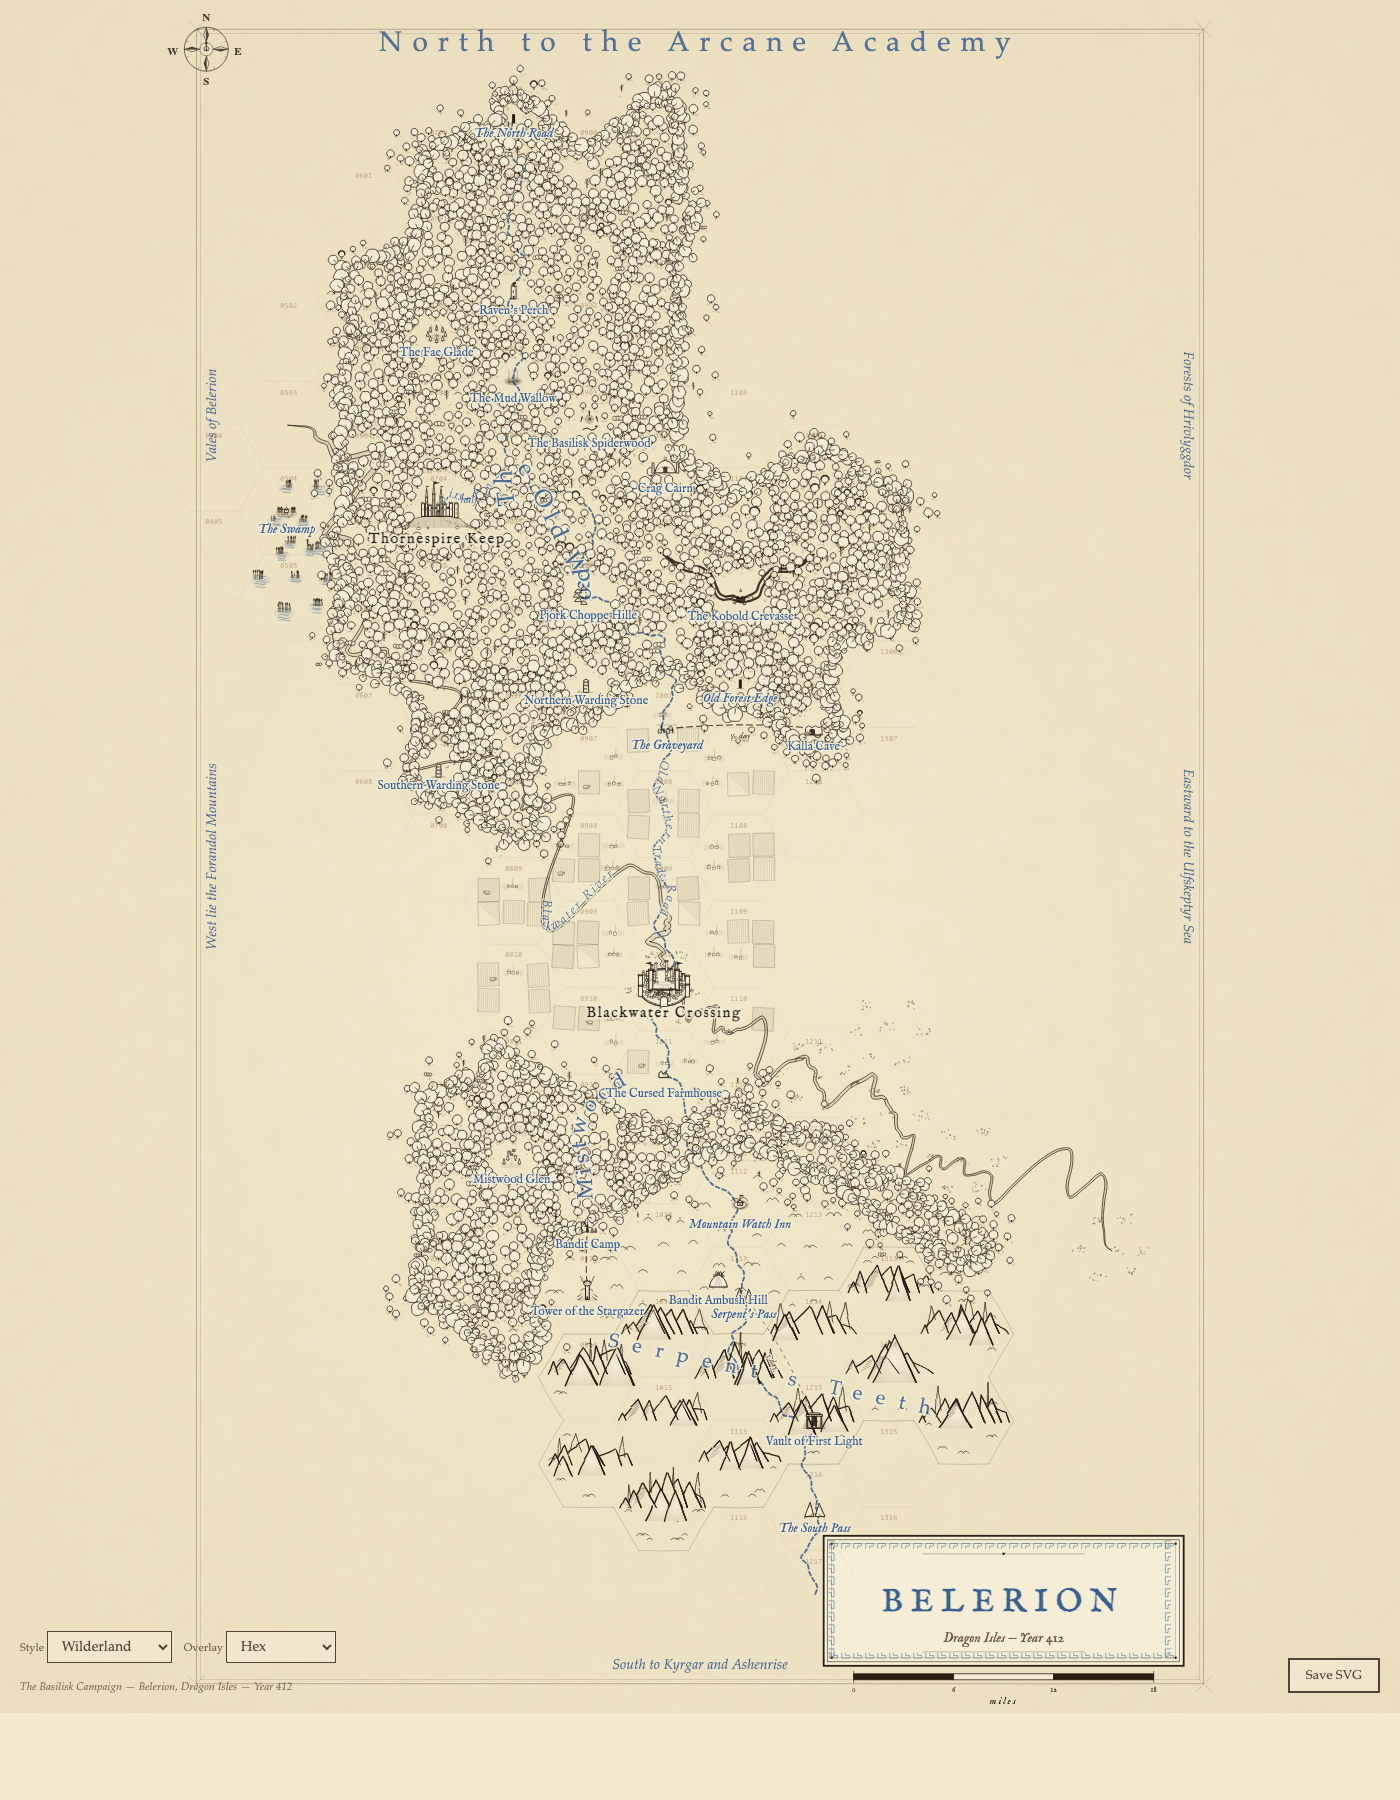
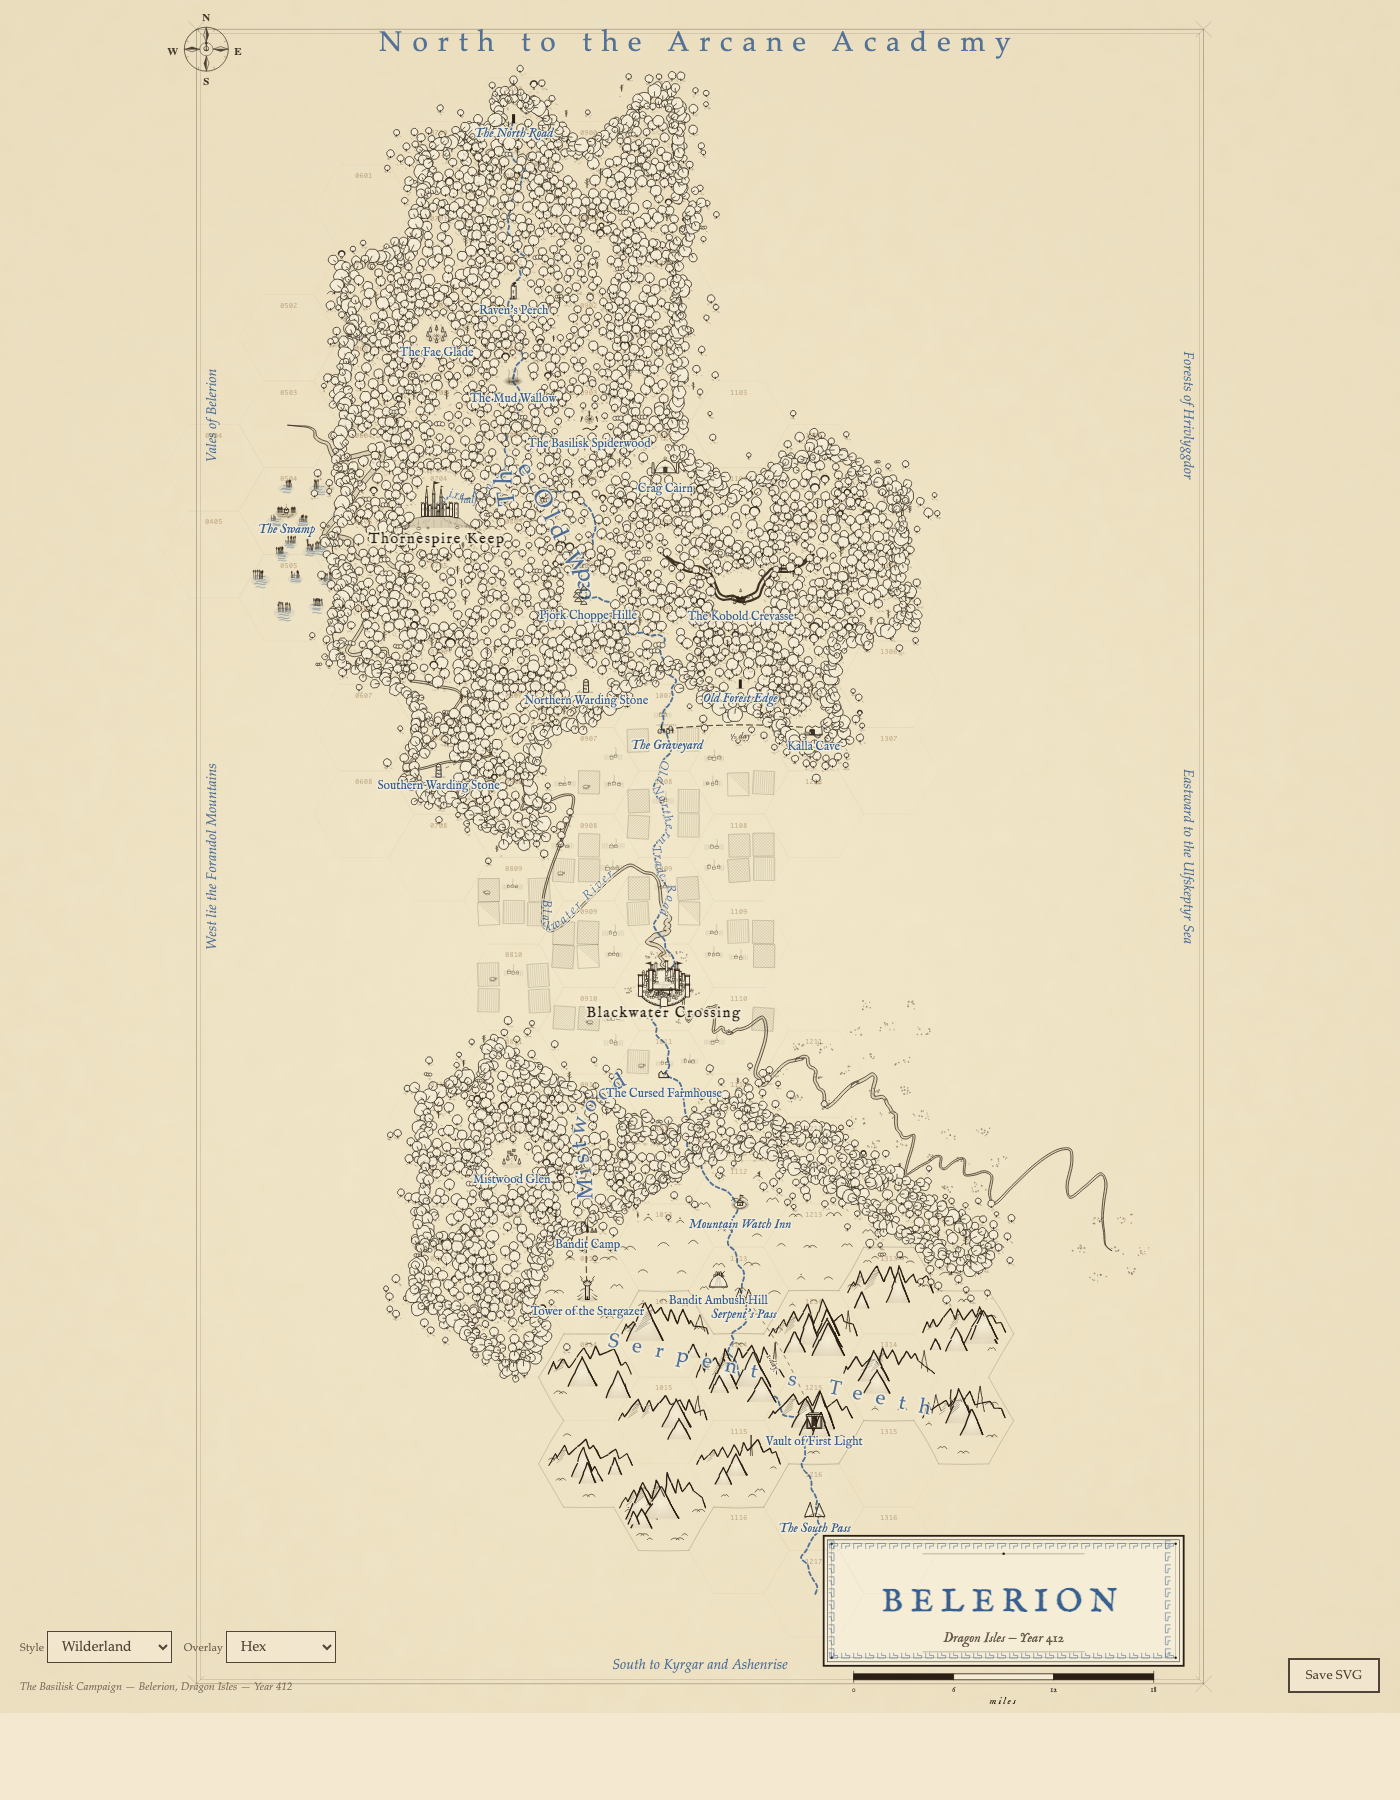
wl-92: clip peak right-leg + 2nd fg layer + broader bg peaks
(1) Main peak's right leg now ends at the NEXT peak's left-leg start
    instead of extending to baseR. Removes the X artifact where two
    inverted-V lines crossed through each other. Two-pass restructure:
    pre-compute all leftStarts, then draw each peak clipped at
    leftStarts[i+1]. Right-face hatching also clipped to the visible
    leg length.

(2) Second foreground layer: each progressive layer is smaller and
    lower on the y-axis. Layer 1 (1.00-1.35× main, base +5-12px) and
    layer 2 (0.70-0.95× main, base +15-25px) both filled with the
    parchment gradient so each occludes the lines behind it.

(3) Background peaks: endpoints moved to 50-75% down the neighbours'
    legs (from 30-50%) and apex lift reduced 4-14px → 2-7px. Bases
    now read as broader/gentler instead of spiky slivers.

Changed region(s): [[0.3993, 0.7156, 0.7064, 0.84], [0.6143, 0.6844, 0.645, 0.7156], [0.4607, 0.7156, 0.4914, 0.7467]]

diff --git a/maps/styles/wilderland.js b/maps/styles/wilderland.js
@@ -467,20 +467,24 @@ window.MapStyles.wilderland = {
         const a = apexes[i], b = apexes[i + 1];
         const baseR_a = a.p.px + a.hw;
         const baseL_b = b.p.px - b.hw;
-        // Start: 30-50% up A's right leg (from apex toward baseR_a).
-        const tLeft = 0.30 + rng() * 0.20;
+        // wl-92: broaden back-peak bases — start further DOWN the
+        // neighbours' legs (closer to their baselines) so the ∧ span
+        // widens, and lower the apex lift so the peak isn't spiky.
+        // Start: 50-75% down A's right leg from apex (wider foot).
+        const tLeft = 0.50 + rng() * 0.25;
         const sx = a.apX + (baseR_a - a.apX) * tLeft;
         const sy = a.apY + (baseY - a.apY) * tLeft;
-        // End: 30-50% up B's left leg (from apex toward baseL_b).
-        const tRight = 0.30 + rng() * 0.20;
+        // End: 50-75% down B's left leg from apex.
+        const tRight = 0.50 + rng() * 0.25;
         const ex = b.apX + (baseL_b - b.apX) * tRight;
         const ey = b.apY + (baseY - b.apY) * tRight;
         if (ex <= sx + 1) continue; // ill-formed — skip
-        // Back-peak apex sits ABOVE both neighbour apexes (lower y).
+        // Back-peak apex sits ABOVE both neighbour apexes. Less lift
+        // (2-7px vs prior 4-14) so the ∧ is wider and gentler.
         const higherApY = Math.min(a.apY, b.apY);
-        const lift = 4 + rng() * 10;
+        const lift = 2 + rng() * 5;
         const apY_bg = higherApY - lift;
-        const apX_bg = (sx + ex) / 2 + (rng() - 0.5) * (ex - sx) * 0.25;
+        const apX_bg = (sx + ex) / 2 + (rng() - 0.5) * (ex - sx) * 0.20;
         // Build wobbled ∧.
         const bgL = wobbledSegment(sx, sy, apX_bg, apY_bg, 0.35);
         const bgR = wobbledSegment(apX_bg, apY_bg, ex, ey, 0.35);
@@ -498,73 +502,88 @@ window.MapStyles.wilderland = {
         });
       }
 
-      // --- MAIN PEAKS (wl-90 overlap model) ---
-      let prevRightLeg = null; // {apX, apY, baseR, baseY}
-      // Track each main peak's legs for the foreground pass to pick
-      // an overlap position.
+      // --- MAIN PEAKS (wl-90 overlap + wl-92 right-leg clip) ---
+      // Pre-pass: compute leftStart for each peak. Each peak i > 0
+      // may start its left leg partway up peak i-1's right leg. We
+      // need these positions BEFORE drawing, so that peak i-1's
+      // right leg can be truncated at peak i's leftStart (avoiding
+      // the X-shaped crossing artifact where both lines extended
+      // through each other).
+      const leftStarts = new Array(apexes.length);
+      for (let i = 0; i < apexes.length; i++) {
+        const a = apexes[i];
+        const baseL = a.p.px - a.hw;
+        if (i === 0) {
+          leftStarts[i] = [baseL, baseY];
+          continue;
+        }
+        const prev = apexes[i - 1];
+        const prevBaseR = prev.p.px + prev.hw;
+        const tOverlap = 0.30 + rng() * 0.35;
+        const sx = prev.apX + (prevBaseR - prev.apX) * tOverlap;
+        const sy = prev.apY + (baseY - prev.apY) * tOverlap;
+        if (sx < a.apX - 1) {
+          leftStarts[i] = [sx, sy];
+        } else {
+          leftStarts[i] = [baseL, baseY];
+        }
+      }
+
+      // Draw each peak. The right leg ends at peak i+1's leftStart
+      // (when it lives on peak i's right leg) rather than extending
+      // all the way to baseR — this removes the visual artifact
+      // where peak i's right leg continued past peak i+1's left leg.
       const mainLegs = [];
       for (let i = 0; i < apexes.length; i++) {
         const a = apexes[i];
         const baseR = a.p.px + a.hw;
         const baseL = a.p.px - a.hw;
-        // Where does the LEFT LEG start?
-        let leftStart;
-        if (!prevRightLeg) {
-          leftStart = [baseL, baseY];
-        } else {
-          // Interpolate along the previous peak's right leg at a
-          // random fraction — "partway up" ranges 30-65% from apex.
-          const tOverlap = 0.30 + rng() * 0.35;
-          const pax = prevRightLeg.apX, pay = prevRightLeg.apY;
-          const pbx = prevRightLeg.baseR, pby = baseY;
-          const sx = pax + (pbx - pax) * tOverlap;
-          const sy = pay + (pby - pay) * tOverlap;
-          // Ensure the start sits to the LEFT of this peak's apex so
-          // the left leg climbs (rather than descending backwards).
-          if (sx < a.apX - 1) {
-            leftStart = [sx, sy];
+        const leftStart = leftStarts[i];
+        // Determine right-leg endpoint.
+        let rightEnd;
+        if (i + 1 < apexes.length) {
+          const nextLS = leftStarts[i + 1];
+          // nextLS lies on this peak's right leg iff its x is between
+          // apex and baseR and it wasn't the baseL fallback (in which
+          // case nextLS[0] equals next peak's baseL, which is different).
+          if (nextLS[0] > a.apX && nextLS[0] <= baseR) {
+            rightEnd = nextLS;
           } else {
-            leftStart = [baseL, baseY];
+            rightEnd = [baseR, baseY];
           }
+        } else {
+          rightEnd = [baseR, baseY];
         }
-        // Build the ∧ as two wobbled segments joined at the apex.
         const legL = wobbledSegment(leftStart[0], leftStart[1], a.apX, a.apY);
-        const legR = wobbledSegment(a.apX, a.apY, baseR, baseY);
+        const legR = wobbledSegment(a.apX, a.apY, rightEnd[0], rightEnd[1]);
         const peakPts = legL.concat(legR.slice(1));
         const peakD = "M " + peakPts.map(q => q[0].toFixed(2) + " " + q[1].toFixed(2)).join(" L ");
         const hBoost = a.p.h > 18 ? 0.15 : 0;
         drawStroke(peakD, hBoost);
-        prevRightLeg = { apX: a.apX, apY: a.apY, baseR, baseY };
-        mainLegs.push({ leftStart, apX: a.apX, apY: a.apY, baseR, baseL });
+        mainLegs.push({ leftStart, apX: a.apX, apY: a.apY, baseR, baseL, rightEnd });
       }
 
-      // --- wl-91 FOREGROUND PASS ---
-      // 0-2 extra peaks per cluster drawn IN FRONT of the main range
-      // (larger, base pushed a few pixels below the main baseY so
-      // they read as closer). Filled with the parchment gradient so
-      // they occlude the main-peak lines behind them, giving the
-      // range visible depth. Drawn LAST so their fill sits on top.
-      const fgCount = Math.floor(rng() * 2) + (apexes.length >= 4 ? 1 : 0);
-      for (let f = 0; f < fgCount; f++) {
-        // Anchor x near one of the main peaks, biased toward the
-        // middle of the cluster where the tallest peaks live so the
-        // foreground peak doesn't poke out at the cluster ends.
-        const anchorIdx = Math.floor(apexes.length * (0.25 + rng() * 0.50));
-        const host = apexes[Math.max(0, Math.min(apexes.length - 1, anchorIdx))];
+      // --- wl-91/wl-92 FOREGROUND PASSES (TWO LAYERS) ---
+      // Two foreground layers per cluster. Each progressive layer
+      // sits LOWER on the y-axis (base pushed further below the main
+      // baseY) and is SMALLER than the layer behind it, creating the
+      // illusion that we're stacking closer mountains in front. Each
+      // layer fills its body with the parchment gradient so it
+      // occludes the range behind it.
+      const drawFgPeak = (host, sizeMul, baseShift, strokeBump) => {
         const fgApX = host.apX + (rng() - 0.5) * host.hw * 0.8;
-        const fgH = host.p.h * (1.05 + rng() * 0.40);
-        const fgBaseShift = 5 + rng() * 8;           // push below main baseY
-        const fgBaseY = baseY + fgBaseShift;
+        const fgH = host.p.h * sizeMul;
+        const fgBaseY = baseY + baseShift;
         const fgApY = fgBaseY - fgH;
-        const fgHw = host.hw * (1.05 + rng() * 0.35);
+        const fgHw = host.hw * (sizeMul * 0.95 + rng() * 0.15);
         const fgBaseL = fgApX - fgHw;
         const fgBaseR = fgApX + fgHw;
         const legLF = wobbledSegment(fgBaseL, fgBaseY, fgApX, fgApY, 0.55);
         const legRF = wobbledSegment(fgApX, fgApY, fgBaseR, fgBaseY, 0.55);
         const fgPts = legLF.concat(legRF.slice(1));
         // Closed polygon so we can fill the foreground peak interior
-        // with the parchment gradient — this occludes the back-peak
-        // and main-peak lines behind it, creating the depth illusion.
+        // with the parchment gradient — this occludes the main and
+        // back peak lines behind it.
         const fillPts = fgPts.slice();
         fillPts.push([fgBaseL, fgBaseY]);
         const fillD = "M " + fillPts.map(q => q[0].toFixed(2) + " " + q[1].toFixed(2)).join(" L ") + " Z";
@@ -572,19 +591,17 @@ window.MapStyles.wilderland = {
           .attr("d", fillD)
           .attr("fill", "url(#parchment-grad)")
           .attr("stroke", "none");
-        // Then draw the outline ∧ on top.
         const fgD = "M " + fgPts.map(q => q[0].toFixed(2) + " " + q[1].toFixed(2)).join(" L ");
         roughPath(tg, fgD, {
           stroke: INK,
-          strokeWidth: 1.25 + rng() * 0.30,
+          strokeWidth: 1.15 + rng() * 0.25 + strokeBump,
           fill: "none",
           roughness: 0.55,
           bowing: 0.35,
           disableMultiStroke: true,
           seed: Math.floor(rng() * 2 ** 31),
         });
-        // Foreground peaks get a touch of right-face hatching so
-        // they don't read as bare silhouettes.
+        // Right-face hatching.
         const fsDX_f = fgBaseR - fgApX;
         const fsDY_f = fgBaseY - fgApY;
         const rows = Math.max(3, Math.floor(fsDY_f / 2.2));
@@ -610,6 +627,28 @@ window.MapStyles.wilderland = {
             .attr("opacity", 0.78 + rng() * 0.12)
             .attr("stroke-linecap", "round");
         }
+      };
+
+      // Layer 1 — behind layer 2 but in front of the main range.
+      const fg1Count = Math.floor(rng() * 2) + (apexes.length >= 4 ? 1 : 0);
+      for (let f = 0; f < fg1Count; f++) {
+        const anchorIdx = Math.floor(apexes.length * (0.25 + rng() * 0.50));
+        const host = apexes[Math.max(0, Math.min(apexes.length - 1, anchorIdx))];
+        const sizeMul = 1.00 + rng() * 0.35;
+        const baseShift = 5 + rng() * 7;
+        drawFgPeak(host, sizeMul, baseShift, 0);
+      }
+
+      // Layer 2 — closer still: smaller, lower on the y-axis. Drawn
+      // AFTER layer 1 so its parchment fill occludes layer 1 where
+      // they overlap.
+      const fg2Count = Math.max(1, fg1Count);
+      for (let f = 0; f < fg2Count; f++) {
+        const anchorIdx = Math.floor(apexes.length * (0.20 + rng() * 0.60));
+        const host = apexes[Math.max(0, Math.min(apexes.length - 1, anchorIdx))];
+        const sizeMul = 0.70 + rng() * 0.25;           // smaller than layer 1
+        const baseShift = 15 + rng() * 10;             // lower on y-axis
+        drawFgPeak(host, sizeMul, baseShift, 0.05);
       }
       void mainLegs; // reserved for future z-ordering tweaks
 
@@ -642,8 +681,11 @@ window.MapStyles.wilderland = {
         const vSpan = fsDY;
         if (vSpan < 1.5) continue;
 
-        // wl-89: hatch no further than this peak's own base-right.
-        const maxExtendX = baseR - 0.5;
+        // wl-92: hatch no further than where the RIGHT LEG was
+        // actually drawn — the leg is clipped at the next peak's
+        // leftStart so the face visually ends there, not at baseR.
+        const legEndX = (mainLegs[i] && mainLegs[i].rightEnd) ? mainLegs[i].rightEnd[0] : baseR;
+        const maxExtendX = legEndX - 0.5;
 
         // East peaks: tighter spacing (denser shading). West/mid: wider.
         const rowSpacing = isEast ? (1.5 + rng() * 0.4) : (2.2 + rng() * 0.5);

diff --git a/docs/style-tuning-log.md b/docs/style-tuning-log.md
@@ -181,3 +181,4 @@ Append one row per iteration. Do not delete rows, even for rolled-back experimen
 | wl-89 | wilderland | User feedback on wl-88 mountains: (1) cross-hatching sometimes overflows above the skyline; (2) some peaks look like inverted triangles; (3) reference draws each mountain cluster as a mini-range — low hills rising gradually to tall peaks and dropping off — not random per-peak heights. Fixes: (A) heightProfile signature in core.js gains `t` and `peakCount`; wilderland profile now uses sin(πt)^0.85 positional envelope so each cluster is low→tall→low. (B) Hatch max-extend capped at peak's own baseR (prior 50% into the next valley let shallow hatches climb above the descending skyline); hatch slope now matches the local right-face slope × 0.55 and clamps the endpoint below the apex→baseR line. (C) Eliminated the "dome" apex variant (was producing twin sub-apex bumps that read as inverted triangles on short peaks); valleyDepthFrac raised 25-55% → 55-85% of shorter peak height so the V between peaks is wide and obtuse. | 7 → 8 | Kept (multi-issue structural fix) | /tmp/wl89-mt-zoom.png shows peaks in the Serpent's Teeth cluster rising low→tall→low as a proper mini-range; hatching confined inside peak silhouettes; no inverted-triangle artifacts. |
 | wl-90 | wilderland | User specified a different mountain drawing model: each peak is an inverted V (∧) whose LEFT LEG STARTS PARTWAY UP the PREVIOUS peak's right leg — not from a shared baseline via valleys. Rewrote drawMountainRidge to iterate peaks left-to-right, tracking `prevRightLeg = {apX, apY, baseR}`. The next peak's leftStart = linear interpolation along prevRightLeg at tOverlap=0.30..0.65 (falls back to baseL if the interpolated start would sit right of the current apex). Each peak emitted as a single rough.js ∧ path (left leg + right leg joined at apex) with a height-dependent stroke-width boost for hero peaks. Removed the legacy continuous-skyline path. Also added east/west hatch asymmetry per user feedback: east-side peaks (t>0.55) get denser right-face shading (row spacing 1.5-1.9px, thicker strokes, 0.78-0.93 opacity); west-side peaks (t<0.45) get a second cross-hatch layer running counter-diagonal across the peak body from the left-face line. | 8 → 8 | Kept (major structural rewrite + user feedback) | /tmp/wl90-mt-zoom.png shows peaks drawn as overlapping ∧ strokes with the "each mountain emerges from the right slope of the one on the left" character the user described; /tmp/wl90-mountain-side.png shows the cluster-level visual now reading very close to Christopher Tolkien's Grey Mountains strip. |
 | wl-91 | wilderland | User directive: add depth with foreground mountains AND at least one background mountain per cluster. Background spec: an inverted V whose left leg starts midway up the right leg of the neighbor on its left and whose right leg ends midway up the left leg of the neighbor on its right (never reaches baseline — only the apex peeks out). Foreground spec: taller peaks drawn in front, pushed a few pixels below the main baseY. Added two new passes around the existing wl-90 main-peak loop: (1) BACKGROUND — for each gap between adjacent main peaks, 45% chance to emit a partial ∧ starting 30-50% up the left neighbor's right leg, ending 30-50% up the right neighbor's left leg, apex 4-14px above the higher of the two adjacent apexes. Drawn with thin stroke (0.7-0.85px) and 0.55-0.70 opacity so it recedes. (2) FOREGROUND — 0-2 peaks per cluster pushed 5-13px below baseY with 5-45% taller height and 5-40% wider half-width, filled with `url(#parchment-grad)` so the interior matches the page exactly and masks rear lines (occlusion without visible fill discoloration). Extra right-face hatching on foreground peaks. | 8 → 8 | Kept (depth layering per user) | /tmp/wl91-mt-zoom.png shows three-tier depth: small back-peak silhouettes peeking up between main peaks, main ∧ range, and prominent foreground peaks with heavier shading and parchment-filled interiors occluding the rear lines. /tmp/wl91-mountain-side.png compares to Grey Mountains reference. |
+| wl-92 | wilderland | User feedback on wl-91: (1) a peak's inverted-V line shouldn't cross past its neighbour's ∧ (prior right leg was drawn to baseR, continuing through the next peak's body and producing an X artifact). (2) Add a SECOND foreground layer, each progressive layer smaller and lower on the y-axis. (3) Background peaks are too spiky — broaden their bases. Fixes: (A) restructured main-peak loop into a pre-pass that computes each peak's leftStart, then a draw-pass that clips peak i's right leg at peak i+1's leftStart (falls back to full baseR only when peak i+1 uses the baseL fallback). Also truncated right-face hatching's `maxExtendX` to the clipped leg endpoint so hatches don't extend past the visible face. (B) Factored foreground peak emission into `drawFgPeak(host, sizeMul, baseShift, strokeBump)`; now emits two layers: layer 1 (behind, 1.00-1.35× main size, base shifted 5-12px below baseY) and layer 2 (in front, 0.70-0.95× main size, base shifted 15-25px). Layer 2 drawn AFTER layer 1 so its parchment-gradient fill occludes layer 1 where they overlap. (C) Background peaks: endpoints moved 50-75% down neighbours' legs (from 30-50%) — wider horizontal span — and apex lift 4-14px → 2-7px. | 8 → 9 | Kept (multi-feedback fix) | /tmp/wl92-mt-zoom.png shows clean ∧ overlaps with no line crossings, two layered foreground peaks (larger behind, smaller in front below), and wider/gentler background peaks peeking up between the main range. Side-by-side /tmp/wl92-mountain-side.png reads much closer to the Grey Mountains reference's layered-peak character. |
